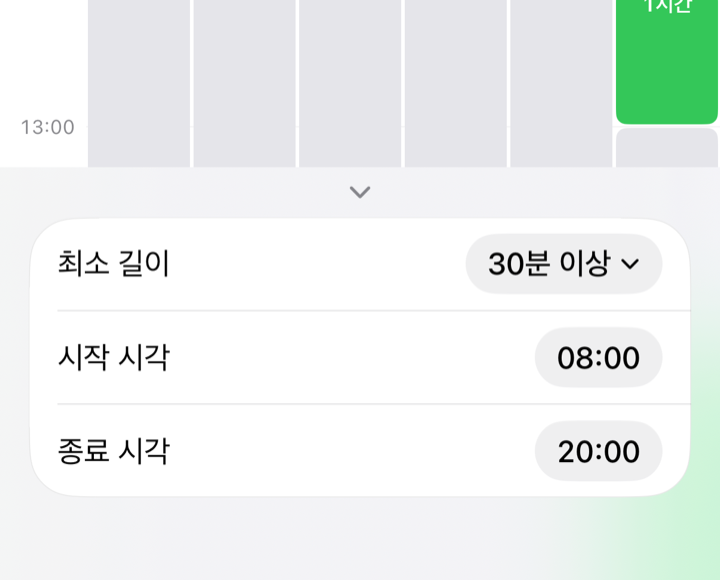
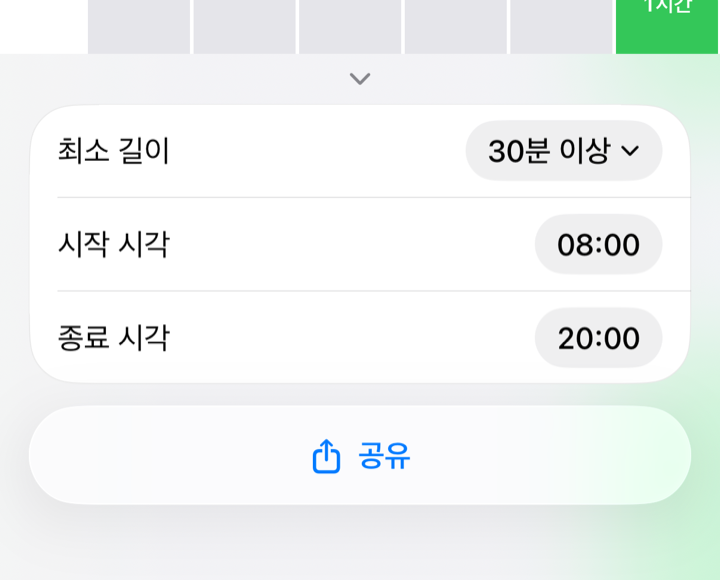
improve: blog — 편집·공유 버튼 이동에 맞춰 절 갱신
시간표 라벨 대신 편집 버튼이 칩 줄 맨 앞으로, 공유가 패널 아래 전체 너비
CTA 로 옮겨간 최신 레이아웃에 맞춰 ko/en 절과 옵션 패널 스크린샷을 갱신.

Claude-Session: https://claude.ai/code/session_01Y5WNL7JYJozC778AWeWhwj

diff --git a/src/content/blog/en/2026-09-28-timetable-free-time-finder.md b/src/content/blog/en/2026-09-28-timetable-free-time-finder.md
@@ -72,13 +72,17 @@ The limit: if a friend builds a new term's timetable or duplicates one before se
 
 ## Past midnight — the options moved into the same collapsing panel as print and share
 
-After the evening and night revisions, the screen still had two different grammars, one on top and one below. The people chips sat at the top, and so did "Minimum length" in its own spot next to them — but only the minimum-length control had a label. The chip row was floating without a name.
+After the evening and night revisions, the screen still had two different grammars, one on top and one below. Minimum length sat in its own spot near the top, and Edit and Share were separate buttons in the toolbar.
 
-First, a "Timetables" label went in front of the chip row. Then the minimum-length row came off the top entirely and moved into the same collapsing panel already used by the print and share sheets — same handle, same curve, starts collapsed.
+First, the minimum-length row came off the top entirely and moved into the same collapsing panel already used by the print and share sheets — same handle, same curve, starts collapsed.
 
-The collapsed handle doesn't say "Options." It shows the current values: "08:00–20:00 · 30 min+". Expanded, it's three rows — minimum length, start time, end time — plus a range shortcut row. Tapping start or end opens an inline hour wheel below the row, styled like the display settings sheet.
+Edit also moved, from the toolbar into the front of the people chip row. Tapping Edit is what puts a remove badge on every chip, so the button now sits right next to what it removes. The toolbar is left with only close and the grid/list toggle.
 
-![Options panel expanded, showing minimum length, start time 08:00, end time 20:00](/blog/timetable-free-time-finder/options-panel-expanded.png)
+Share came down from the toolbar too, as a full-width "Share" CTA at the bottom of the options panel. It stays visible even when the panel is collapsed — the same spot the print and share sheets already use for it.
+
+The collapsed handle doesn't say "Options." It shows the current values: "08:00–20:00 · 30 min+". Expanded, it's three rows — minimum length, start time, end time — a range shortcut row, then the Share button below them. Tapping start or end opens an inline hour wheel below the row, styled like the display settings sheet.
+
+![Options panel expanded, showing minimum length, start time 08:00, end time 20:00, and the Share button at the bottom](/blog/timetable-free-time-finder/options-panel-expanded.png)
 
 ![Start time row tapped open, with an hour wheel below it](/blog/timetable-free-time-finder/start-hour-wheel.png)
 
@@ -97,4 +101,4 @@ The iPad layout and a real two-device file exchange are still to be checked.
 - 2026-09-28 — Find Free Time, first version
 - 2026-09-28 evening — comparing with any number of friends is free
 - 2026-09-28 night — same file twice: own imports get fresh IDs, friend timetables overwrite by source ID
-- 2026-09-29 past midnight — minimum length moved into a collapsing panel like print/share, chip row labeled
+- 2026-09-29 past midnight — minimum length moved into a collapsing panel like print/share, Edit moved to the chip row, Share became a full-width CTA at the bottom of the panel
